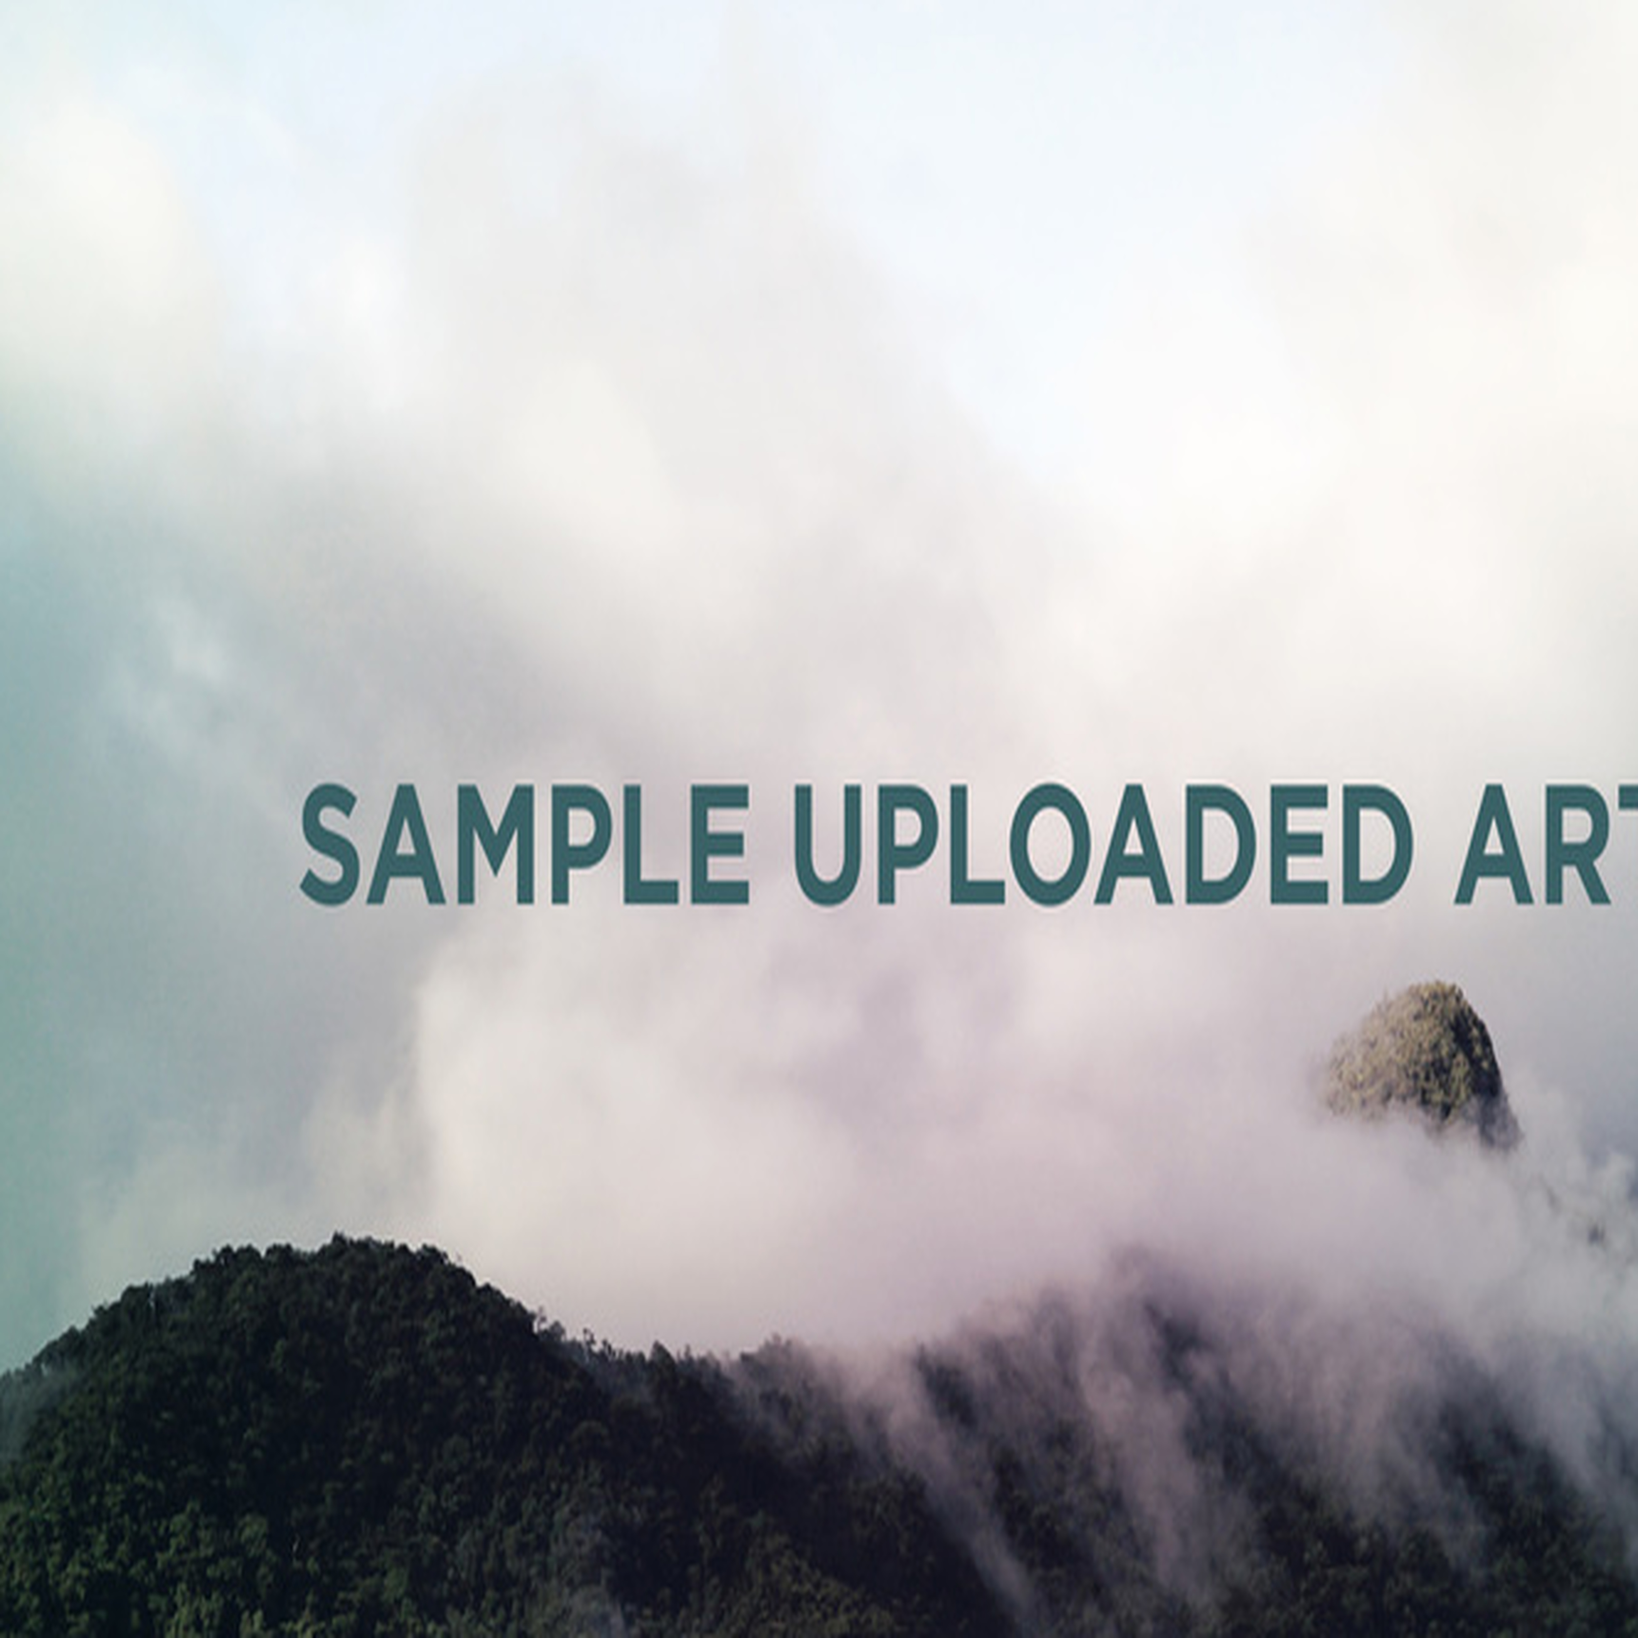
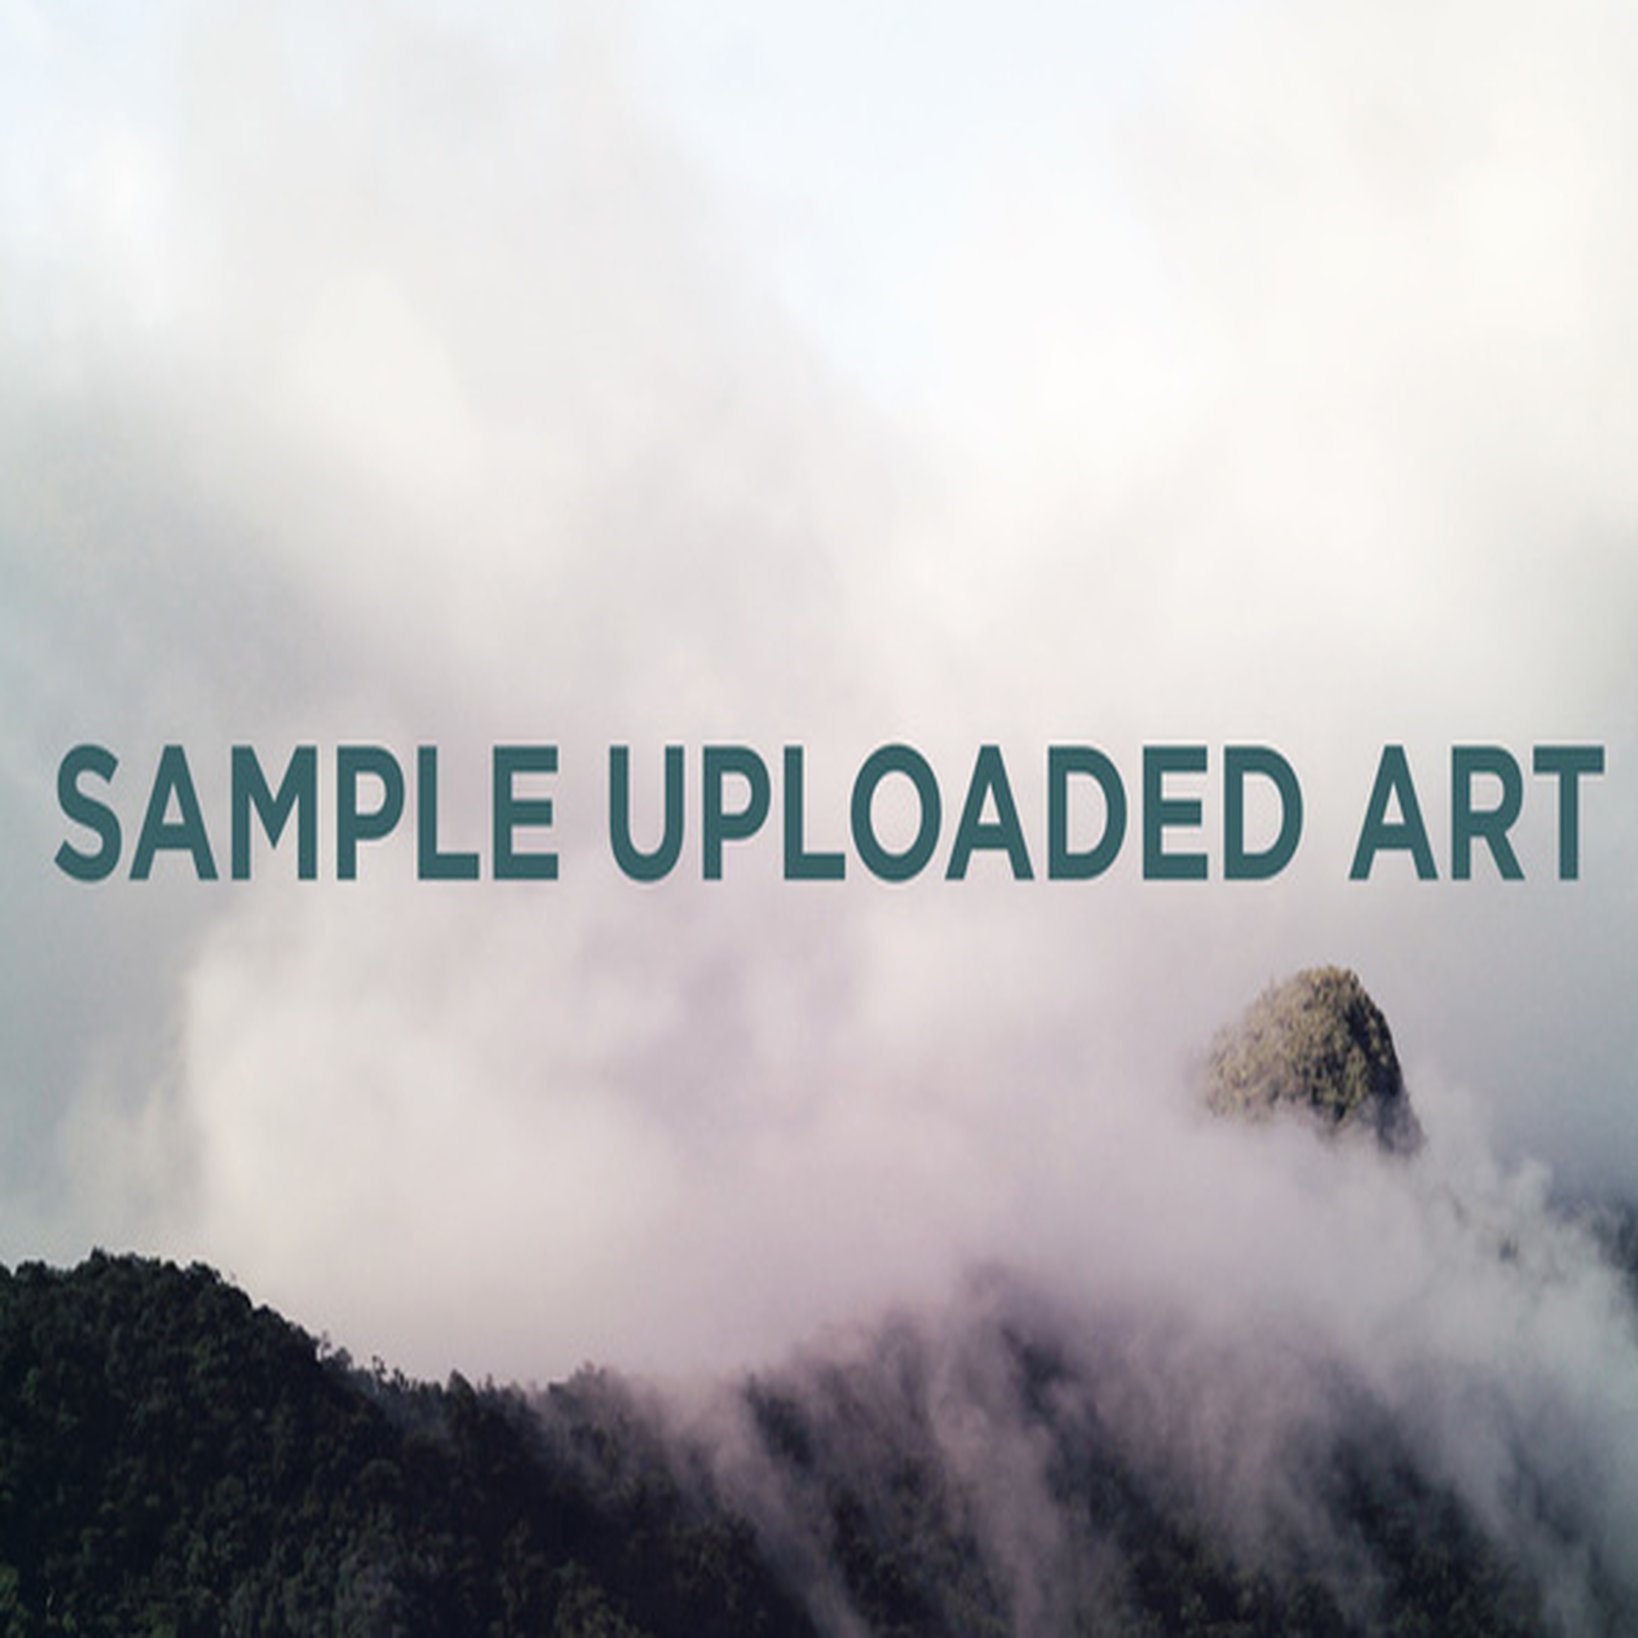
Update 11.14

Changed region(s): [[0.0, 0.3432, 1.0, 1.0], [0.3744, 0.5928, 0.468, 0.7176]]

diff --git a/js/main.js b/js/main.js
@@ -26,7 +26,7 @@ var basic_image_width = 300;
 var image_size_scale = 0.4;
 var total_data={}, url_flag = false;
 var mockup_image_before_width,mockup_image_before_height;
-
+var mockup_image_before_left, mockup_image_before_top;
 var clip_left_x, clip_left_y, clip_right_x, clip_right_y;
 var wheelGroup, test, stopE, getWheel, dropWheel,myEntity;
 var data;
@@ -43,7 +43,7 @@ $(".loader1").css("left",window.innerWidth/2-40);
 $(".loader1").css("top",window.innerHeight/2+5);
 $(".loader1").hide();
 mockup_image_before_width = document.getElementById('mockup-image').offsetWidth;
-mockup_image_before_height = document.getElementById('mockup-image').offsetHeight;
+mockup_image_before_height = window.innerHeight -document.getElementById("theader").offsetHeight-document.getElementById("bfooter").offsetHeight-35-65;
 document.getElementById("mockup_moto").style.left = (document.getElementById('mockup-image').offsetLeft+ document.getElementById('mockup-image').offsetWidth / 2-100)+"px";
 document.getElementById("mockup_moto").style.top = (document.getElementById('mockup-image').offsetTop+document.getElementById('mockup-image').offsetHeight / 2-100)+"px";
 document.getElementsByClassName('img-container')[0].style.height = (window.innerHeight -document.getElementById("theader").offsetHeight-document.getElementById("bfooter").offsetHeight-50-55-75)*1.1 +"px";
@@ -104,7 +104,7 @@ $(window).resize(function() {
   waitForFinalEvent(function(){
         document.getElementById("product_list").style.width = document.getElementById("product_list").parentNode.parentNode.offsetWidth+"px";
         var offset_xxx1 = (mockup_image_before_width - document.getElementById('mockup-image').offsetWidth)/2;
-        mockup_image_before_width = document.getElementById('mockup-image').offsetWidth
+        mockup_image_before_width = document.getElementById('mockup-image').offsetWidth;
         var offset_yyy1 = (mockup_image_before_height - (window.innerHeight -document.getElementById("theader").offsetHeight-document.getElementById("bfooter").offsetHeight-35-65))/2;
         mockup_image_before_height =  window.innerHeight -document.getElementById("theader").offsetHeight-document.getElementById("bfooter").offsetHeight-35-65;
       
@@ -118,11 +118,13 @@ $(window).resize(function() {
         // canvas.width = c.width;
         // canvas.height = c.height;
         canvas1 = new fabric.Canvas('c');
-        
+        console.log(mockup_image_before_width+","+mockup_img.top);
         if(pattern_img) {
             pattern_img.left = pattern_img.left - offset_xxx1;
             pattern_img.top = pattern_img.top - offset_yyy1;
+            // pattern_img.left = pattern_img.left - (mockup_img.left-mockup_image_before_left);
         }
+        // mockup_image_before_left = mockup_img.left;
         canvas1.on('mouse:down', function(e) { 
             // e.target should be the circle
             if((e.target == null) && (pattern_img) && (set_flag)) {
@@ -281,10 +283,17 @@ function init_selectbox() {
             }
             if(text.length>1) {
                 $("#product_list").append($('<optgroup>', {
-                    label: "Custom Mockups",
+                    label: "My Custom Mockups",
                 }));
 
                 lines = text[1].split("<br>");
+                console.log(lines.length);
+                if(lines.length == 1) {
+                     $("#product_list").append($('<optgroup>', {
+                        label: "Click Creator Tool Above To Add",
+                        style: "font-size:16px;padding-left:25px;padding-top:20px;",
+                    }));
+                }
                 for(var j=0; j<lines.length-1; j++) {
                     
                     var arrs = lines[j].split(" width:");
@@ -443,6 +452,8 @@ function product_load(fff = false, ggg=false) {
                 selectable: false
             });
             mockup_img = img.set({ left: canvas1.width/2-mockup_img_width/2, top: canvas1.height/2-mockup_img_height/2, angle: 0, scaleX:image_size_scale, scaleY:image_size_scale, style:'opacity: 1;', selectable: false })
+            mockup_image_before_left = mockup_img.left;
+            mockup_image_before_top = mockup_img.top;
             // console.log(image_size_scale);
             // mockup_img.setShadow({color:'grey', blur:70, offsetX:45, offsetY:45, opacity:1});
             black_y_offset = mockup_img.left - square.left;
@@ -775,7 +786,7 @@ function uploadFile(file) {
   xhr.onreadystatechange = function() {
     if(xhr.readyState == 4 && xhr.status == 200) {
         console.log(xhr.responseText);
-        $(".loader1").hide();
+        
         $("#product_list").prop("disabled", false);
         fabric.Image.fromURL(xhr.responseText, function(img) {
             canvas1.remove(pattern_img);
@@ -806,6 +817,7 @@ function uploadFile(file) {
                 canvas1.add(pattern_img);
                
                 set_flag = true;
+                $(".loader1").hide();
             }
         });
     }
@@ -1005,6 +1017,7 @@ $("#export-button").on('click', function() {
     }
 // init_this();
     function init_this(url) {
+        $(".loader1").hide();
         var image = document.getElementById('image');
         image.parentNode.innerHTML = `<img id="image" src="" alt="Picture" style="width:600px;">`;
         image = document.getElementById('image');
@@ -1213,7 +1226,7 @@ function process_crop_data(e) {
     
 }
 function getCropData(e) {
-    e.innerHTML = "Saving...";
+    e.innerHTML = "Uploading & Saving…";
   
     $("#crop_spinner").css("left", $("#crop_spinner")[0].parentNode.offsetWidth/2-40);
     $("#crop_spinner").css("top", $("#crop_spinner")[0].parentNode.offsetHeight/2-40);

diff --git a/admin/js/demo/dashboard.js b/admin/js/demo/dashboard.js
@@ -416,7 +416,8 @@ function needwarp() {
     var print_location = document.createElement('input');
     print_location.type = "text";
     print_location.name = "print_location";
-    print_location.value = $("input[name=radios]:checked").val();
+    // print_location.value = $("input[name=radios]:checked").val();
+    print_location.value =$("#print_location").val();
     form.appendChild(print_location);
 
     temp = document.getElementById("print_mode");

diff --git a/js/edit.js b/js/edit.js
@@ -684,7 +684,7 @@ function confirm_ok() {
 }
 
 function getCropData1(e) {
-    e.innerHTML = "Saving & Initializing...";
+    e.innerHTML = "Uploading & Saving";
     status = 1;
     $("#crop_spinner").css("left", $("#crop_spinner")[0].parentNode.offsetWidth/2-40);
     $("#crop_spinner").css("top", $("#crop_spinner")[0].parentNode.offsetHeight/2-40);

diff --git a/admin/dashboard/index.php b/admin/dashboard/index.php
@@ -361,7 +361,7 @@
                                             </div>
                                             <div class="col-md-6">
                                                 <label style="vertical-align:middle;" for="pr-code">Product Code / SKU:</label>
-                                                <a  id="question_mark" data-toggle="tooltip" title="This field presents the name of your product." class="icon-question" style="color:black;"></a>
+                                                <a  id="question_mark" data-toggle="tooltip" title="This field presents the code/SKU of your product." class="icon-question" style="color:black;"></a>
                                                 <input id="pr-code" name="pr-code" class="form-control" placeholder="Enter Code" type="text">
                                             </div>
                                         </div>     
@@ -374,12 +374,12 @@
                                             <div class="row">
                                                 <div class="col-md-6">
                                                     <label style="vertical-align:middle;" for="pr-cost">Product Cost:</label>
-                                                    <a  id="question_mark" data-toggle="tooltip" title="This field presents the name of your product." class="icon-question" style="color:black;"></a>
+                                                    <a  id="question_mark" data-toggle="tooltip" title="This field presents the cost of your product." class="icon-question" style="color:black;"></a>
                                                     <input id="pr-cost" name="pr-cost" class="form-control" placeholder="Enter Cost" type="text">
                                                 </div>
                                                 <div class="col-md-6">
                                                     <label style="vertical-align:middle;" for="pr-price">Product Price:</label>
-                                                    <a  id="question_mark" data-toggle="tooltip" title="This field presents the name of your product." class="icon-question" style="color:black;"></a>
+                                                    <a  id="question_mark" data-toggle="tooltip" title="This field presents the price of your product." class="icon-question" style="color:black;"></a>
                                                     <input id="pr-price" name="pr-price" class="form-control" placeholder="Enter Price" type="text">
                                                 </div>
                                             </div>     
@@ -511,9 +511,9 @@
                                                     <option value="TShirt & Sons">TShirt & Sons</option>
                                                 </select>
                                             </div>
-                                            <div class="col-md-4" style="text-align: center;" >
+                                            <div class="col-md-4" style="text-align: left;" >
                                                 <label for="ccmonth">Print Location:</label>
-                                                <div class="radio">
+                                                <!-- <div class="radio">
                                                     <label for="radio1">
                                                         <input id="radio1" name="radios" value="Front" type="radio"> Front
                                                     </label>
@@ -522,11 +522,12 @@
                                                     <label for="radio2">
                                                         <input id="radio2" name="radios" value="Back" type="radio"> Back&nbsp;
                                                     </label>
-                                                </div>
-                                                <!-- <select class="form-control" id="print_location" style="padding-top: 5px;">
+                                                </div> -->
+                                                <select class="form-control" id="print_location" style="padding-top: 5px;">
                                                     <option value="Front">Front</option>
                                                     <option value="Back">Back</option>
-                                                </select> -->
+                                                    <option value="Front & Back">Front & Back</option>
+                                                </select>
                                             </div>
                                             <div class="col-md-4">
                                                 <label for="ccmonth">Print Mode:</label>

diff --git a/register.php b/register.php
@@ -10,6 +10,7 @@
 	$nameError = '';
 	$emailError = '';
 	$passError = '';
+	$confirmError = '';
 	$name = '';
 	$email = '';
 	$pass = '';
@@ -28,6 +29,10 @@
 		$pass = strip_tags($pass);
 		$pass = htmlspecialchars($pass);
 		
+		$confirm_pass = trim($_POST['confirm_pass']);
+		$confirm_pass = strip_tags($confirm_pass);
+		$confirm_pass = htmlspecialchars($confirm_pass);
+
 		// basic name validation
 		if (empty($name)) {
 			$error = true;
@@ -63,6 +68,11 @@
 			$passError = "Password must have atleast 6 characters.";
 		}
 		
+		if ($confirm_pass != $pass) {
+			$error = true;
+			$confirmError = "Not matched password.";
+		}
+
 		// password encrypt using SHA256();
 		$password = hash('sha256', $pass);
 		
@@ -72,23 +82,39 @@
 	 		$_SESSION['UserEmail'] = $email;
 	 		$_SESSION['userPass'] = $password;
 			// header("refresh:1;url=billing.php");
-			header("refresh:1;url=index.php");
-			/*
+			
+			
 			$query = "INSERT INTO users(userName,userEmail,userPass) VALUES('$name','$email','$password')";
 			$res = mysql_query($query);
 				
 			if ($res) {
 				$errTyp = "success";
-				$errMSG = "Successfully Registered! Redirecting to Billing.";
+				$errMSG = "Successfully Registered! Redirecting...";
                 
-				unset($name);
-				unset($email);
-				unset($pass);
+				
+				$res_login=mysql_query("SELECT userId, userName, userPass FROM users WHERE userEmail='$email'");
+				$row=mysql_fetch_array($res_login);
+				$count = mysql_num_rows($res_login); // if uname/pass correct it returns must be 1 row
+	
+				if( $count == 1 ) {
+
+					$_SESSION['user'] = $row['userId'];
+
+					$_COOKIE['user'] = $row['userId'];
+
+						//header("Location: home.php");
+					// unset($name);
+					// unset($email);
+					// unset($pass);
+					header("refresh:1;url=home.php");
+				}
 			} else {
 				$errTyp = "danger";
 				$errMSG = "Something went wrong, try again later...";	
 			}	
-				*/
+			
+			
+		
 		}
 		
 		
@@ -202,7 +228,12 @@
 									</span>
 									<input type="password" name="pass" class="form-control" placeholder="Enter Password" maxlength="15" />
 								</div>
-								
+
+								<span class="text-danger"><?php echo $confirmError; ?></span>
+								<div class="input-group mb-3">
+									<span class="input-group-addon"><i class="icon-lock"></i></span>
+									<input class="form-control" name="confirm_pass" placeholder="Confirm password" type="password">
+								</div>
 
 								
 								<button type="submit" class="btn btn-block btn-success" name="btn-signup">Create Account</button>

diff --git a/home.php b/home.php
@@ -71,7 +71,7 @@
 
     <!-- Modal -->
     <div id="download_modal" class="modal fade" role="dialog">
-		<div class="modal-dialog modal-lg" role="document">
+		<div class="modal-dialog modal-lg modal-primary" role="document">
 			<div class="modal-content">
 				<div class="modal-header">
 					<h4 class="modal-title">Free-Tier Warning</h4>
@@ -81,7 +81,7 @@
 				</div>
 				<div class="modal-body">
 					<p>
-                    You have 1 more mockup remaining after this one at the Free-Tier usage level, fter which you will be charged for 1 month of usage.
+                    You have 1 more mockup remaining after this one at the Free-Tier usage level this month. Please click Signup below to add a billing method to enjoy unlimited mockups per month at just $9 / mo. + ¢5 / mockup.
                     </p>
 				</div>
 				<div class="modal-footer">
@@ -108,7 +108,7 @@
 				</div>
 				<div class="modal-body">
 					<p>
-                    You’ve reached the free-tier limit of 5 mockups/mo. Please add a billing method for unlimited mockup & print files/mo at just $10/mo + ¢7/mockup download.
+                    You’ve reached the free-tier limit of 7 mockups/mo. Please add a billing method for unlimited mockup & print files/mo at just $10/mo + ¢7/mockup download.
                     </p>
 				</div>
 				<div class="modal-footer">
@@ -136,11 +136,12 @@
 				<div class="modal-body">
 					<p>1. Click ‘Upload’, select a hi-res JPG or PNG design.<br>
                         2. Crop / Position the uploaded design.<br>
-                        3. Click ‘Mockup’ to download mockup. Click ‘Print File’ to download print file.<br>
+                        3. Click outside mockup area.<br>
+                        4. Click ‘Mockup’ to download mockup. Click ‘Print File’ to download print file.
                     </p>
 				</div>
 				<div class="modal-footer">
-					<button type="button" class="btn btn-secondary" data-dismiss="modal" onclick="oninsruction()">Don't Show again</button>
+					<button type="button" class="btn btn-secondary" data-dismiss="modal" onclick="oninsruction()">Don't Show Again</button>
 					<button type="button" class="btn btn-primary" data-dismiss="modal" >OK</button>
 				</div>
 			</div>

diff --git a/edit/index.php b/edit/index.php
@@ -183,7 +183,7 @@ var mockup_list = "<?php echo $mockup_list ?>";
     <!-- Modal -->
     <div id="myModal_instruction" class="modal fade" role="dialog">
         <div class="modal-dialog modal-primary modal-sm" role="document">
-            <div class="modal-content">
+            <div class="modal-content" style="background:#f1f1f1;">
                 <div class="modal-header">
                     <h4 class="modal-title">Scale Upload</h4>
                     <button type="button" class="close" data-dismiss="modal" aria-label="Close">
@@ -191,7 +191,7 @@ var mockup_list = "<?php echo $mockup_list ?>";
                     </button>
                 </div>
                 <div class="modal-body">
-                    <p>Please select any hi-res JPG to upload, scale and position over the product. Position the image over the product with extra space for the bleed.</p>
+                    <p>Please select any hi-res JPG to upload, scale and position over the product. Position the image over the product with extra space for the bleed if an all-over print.Click outside product area when complete, click ‘Save’.</p>
                 </div>
                 <div class="modal-footer">
                     <button type="button" class="btn btn-secondary" data-dismiss="modal" onClick="instruction_ok()">OK</button>
